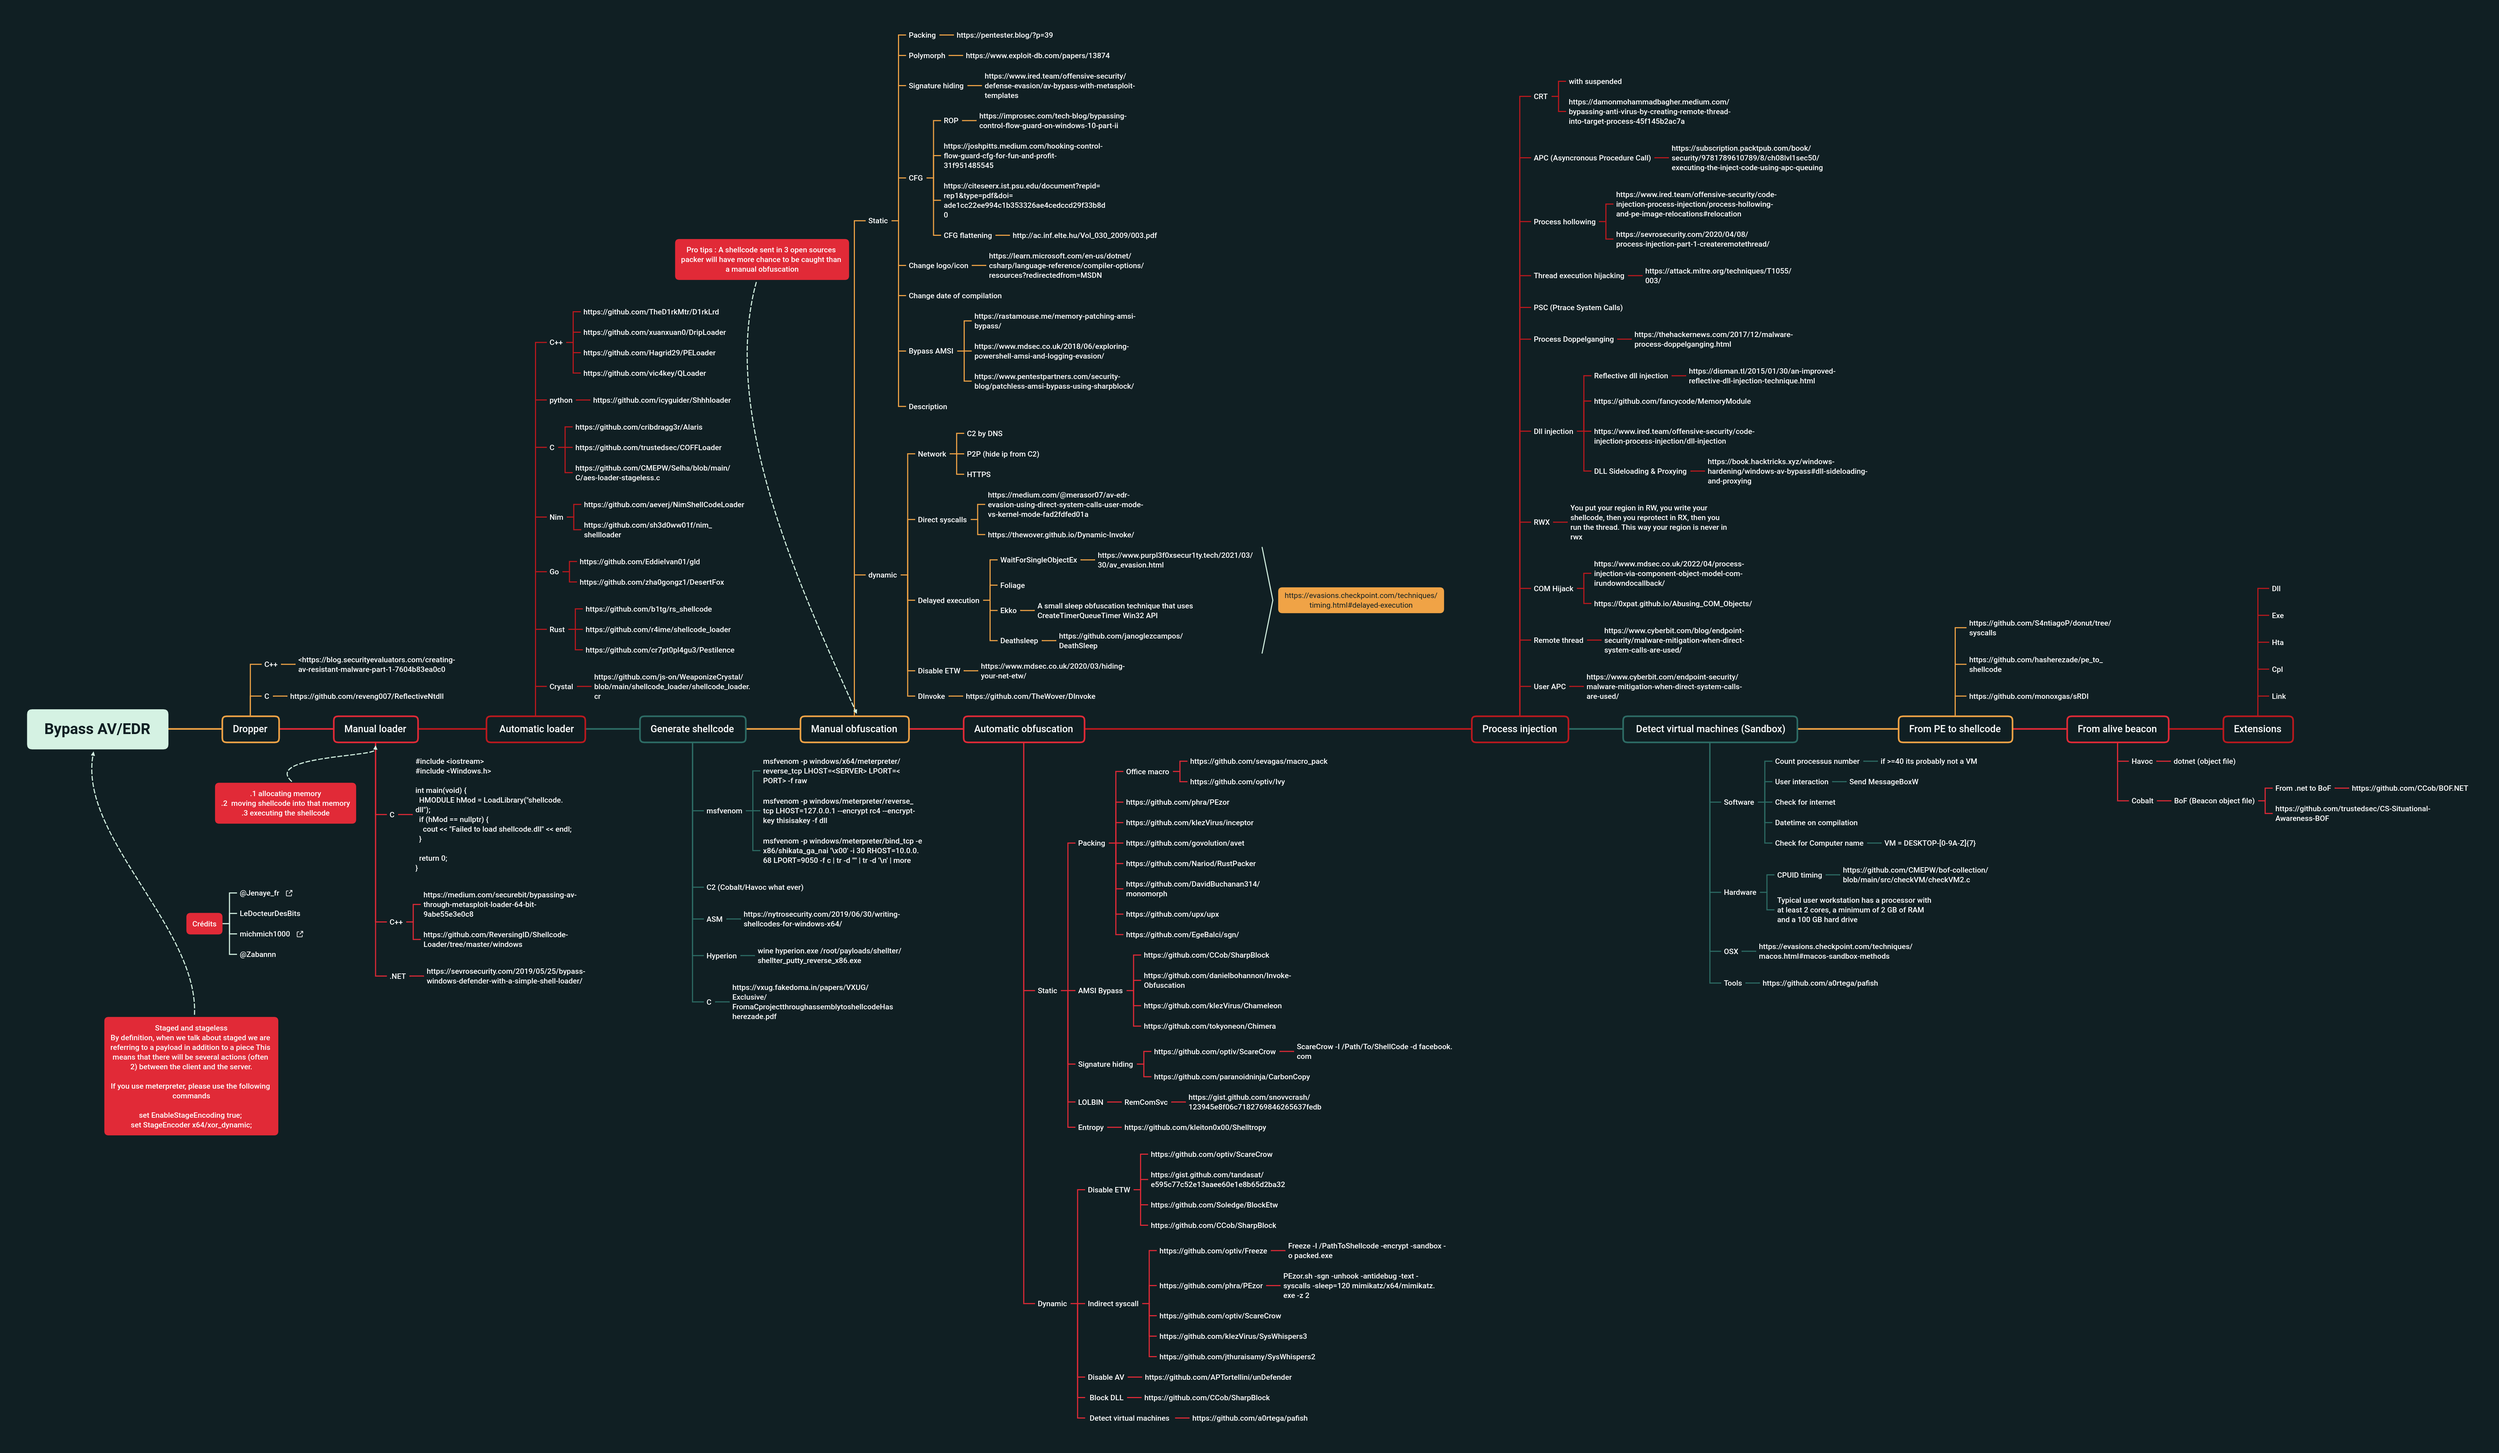
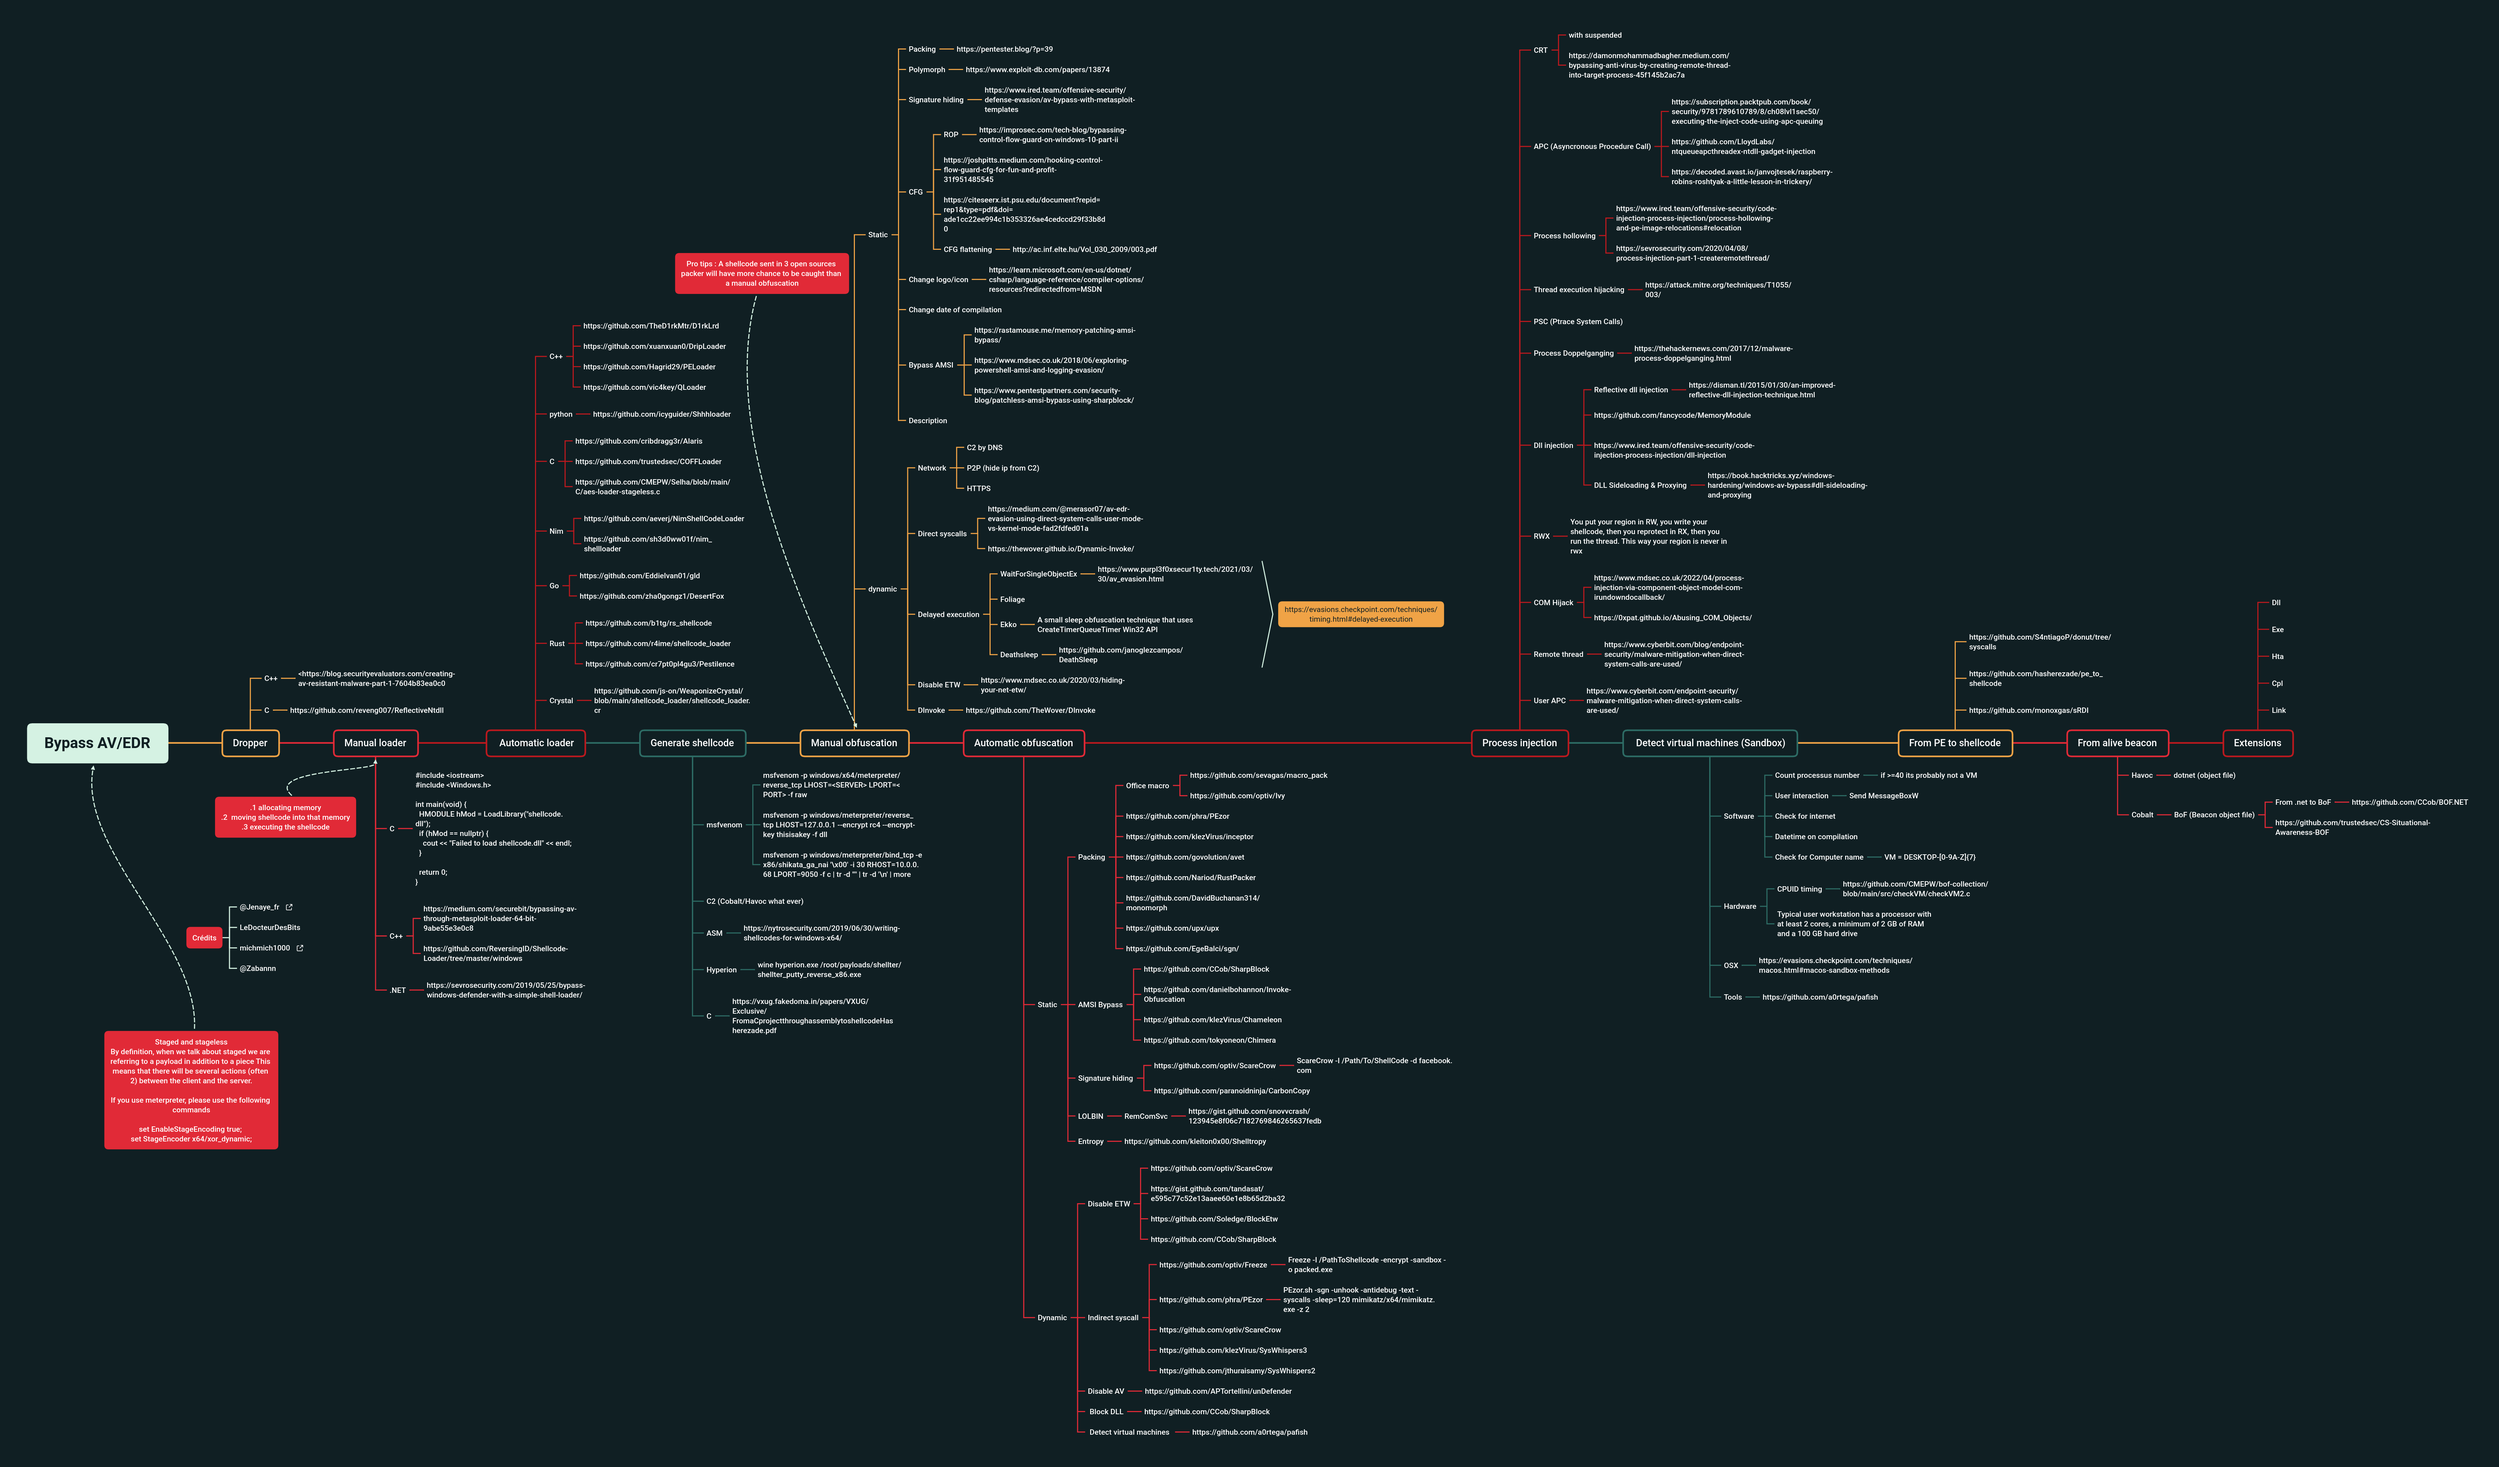
add apc posts

diff --git a/Bypass-AV.md b/Bypass-AV.md
@@ -115,6 +115,7 @@ markmap:
 
 - Packing
   - <https://pentester.blog/?p=39>
+  - <https://github.com/frank2/packer-tutorial>
 - Polymorph
   - <https://www.exploit-db.com/papers/13874>
 - Signature hiding
@@ -219,6 +220,8 @@ markmap:
 ### APC (Asyncronous Procedure Call)
 
 - <https://subscription.packtpub.com/book/security/9781789610789/8/ch08lvl1sec50/executing-the-inject-code-using-apc-queuing>
+- <https://github.com/LloydLabs/ntqueueapcthreadex-ntdll-gadget-injection>
+- <https://decoded.avast.io/janvojtesek/raspberry-robins-roshtyak-a-little-lesson-in-trickery/>
 
 ### Process hollowing
 
